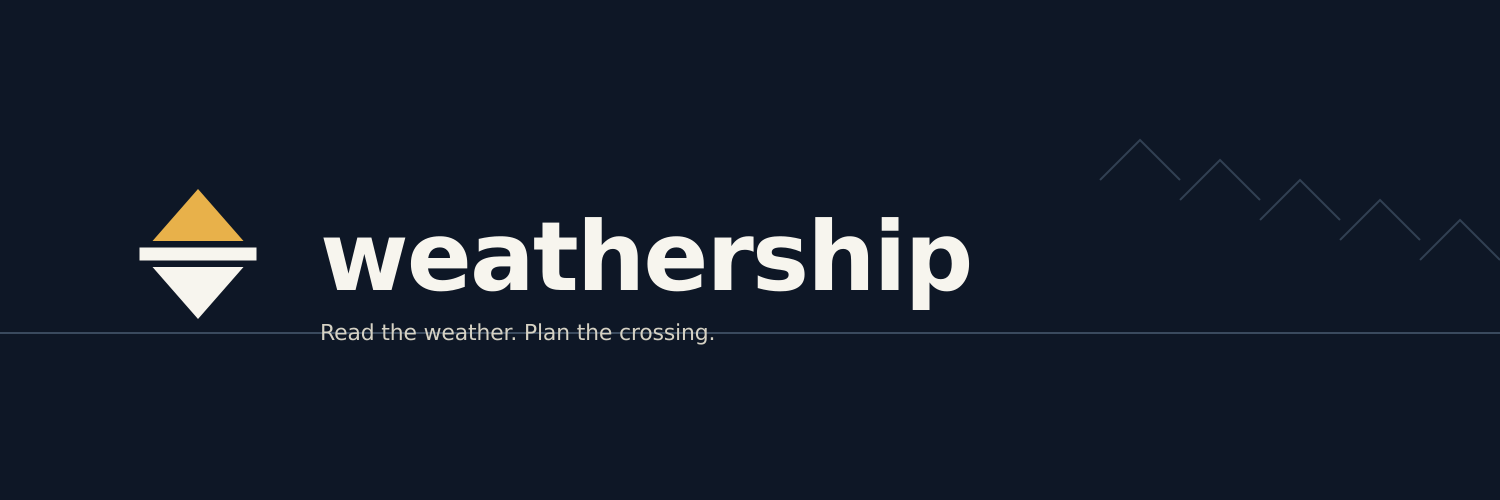
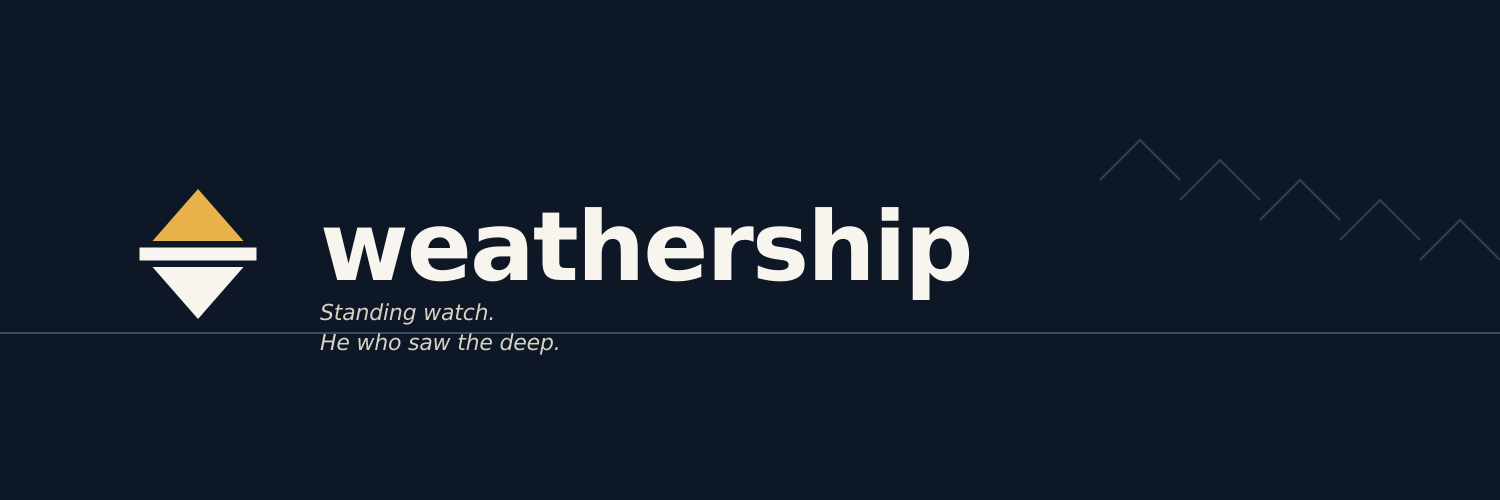
Adopt Gilgamesh tagline: "Standing watch. He who saw the deep."
The line echoes the opening of the Epic of Gilgamesh, which addresses
its king as "He who saw the Deep" — the one who plunged into the abyss,
read its conditions, and returned with hard-won truth. Same reason
weathership stations itself in the data ocean.

Hero on / restructured: wordmark "weathership" as h1, tagline beneath
in italic display weight. OG card and Twitter banner rebuilt to match
the two-line beat. Type specimen, footer caption, about caption, news
launch post, and brand/identity.md tagline section all updated.

Brand PNGs regenerated from updated SVG masters.

Changed region(s): [[0.2147, 0.42, 0.644, 0.72]]

diff --git a/brand/identity.md b/brand/identity.md
@@ -15,7 +15,18 @@ station that keeps watch on the way there.
 
 ## Tagline
 
-> Read the weather. Plan the crossing.
+> Standing watch. He who saw the deep.
+
+The line is a deliberate echo of the opening of the Epic of Gilgamesh,
+which addresses its king as *"He who saw the Deep"* — the one who
+plunged into the abyss, read its conditions, and returned with
+hard-won truth. weathership stations itself in the data ocean for the
+same reason: to read what's actually out there, not what's comfortable.
+
+Use the singular form (*"He who saw the deep."*) for brand surfaces.
+A collective form (*"We who saw the deep."*) is admissible for
+crew-voiced contexts (engineering posts, contributor channels) but the
+default canonical line is singular.
 
 ## Mission
 

diff --git a/web/src/data/news/hello-weathership.md b/web/src/data/news/hello-weathership.md
@@ -27,4 +27,4 @@ If you want to know what's coming next, the [projects page](/projects/)
 is the canonical list. If you want the mark, palette, and
 publication-ready assets, the [media kit](/media-kit/) has them.
 
-Read the weather. Plan the crossing.
+Standing watch. He who saw the deep.
